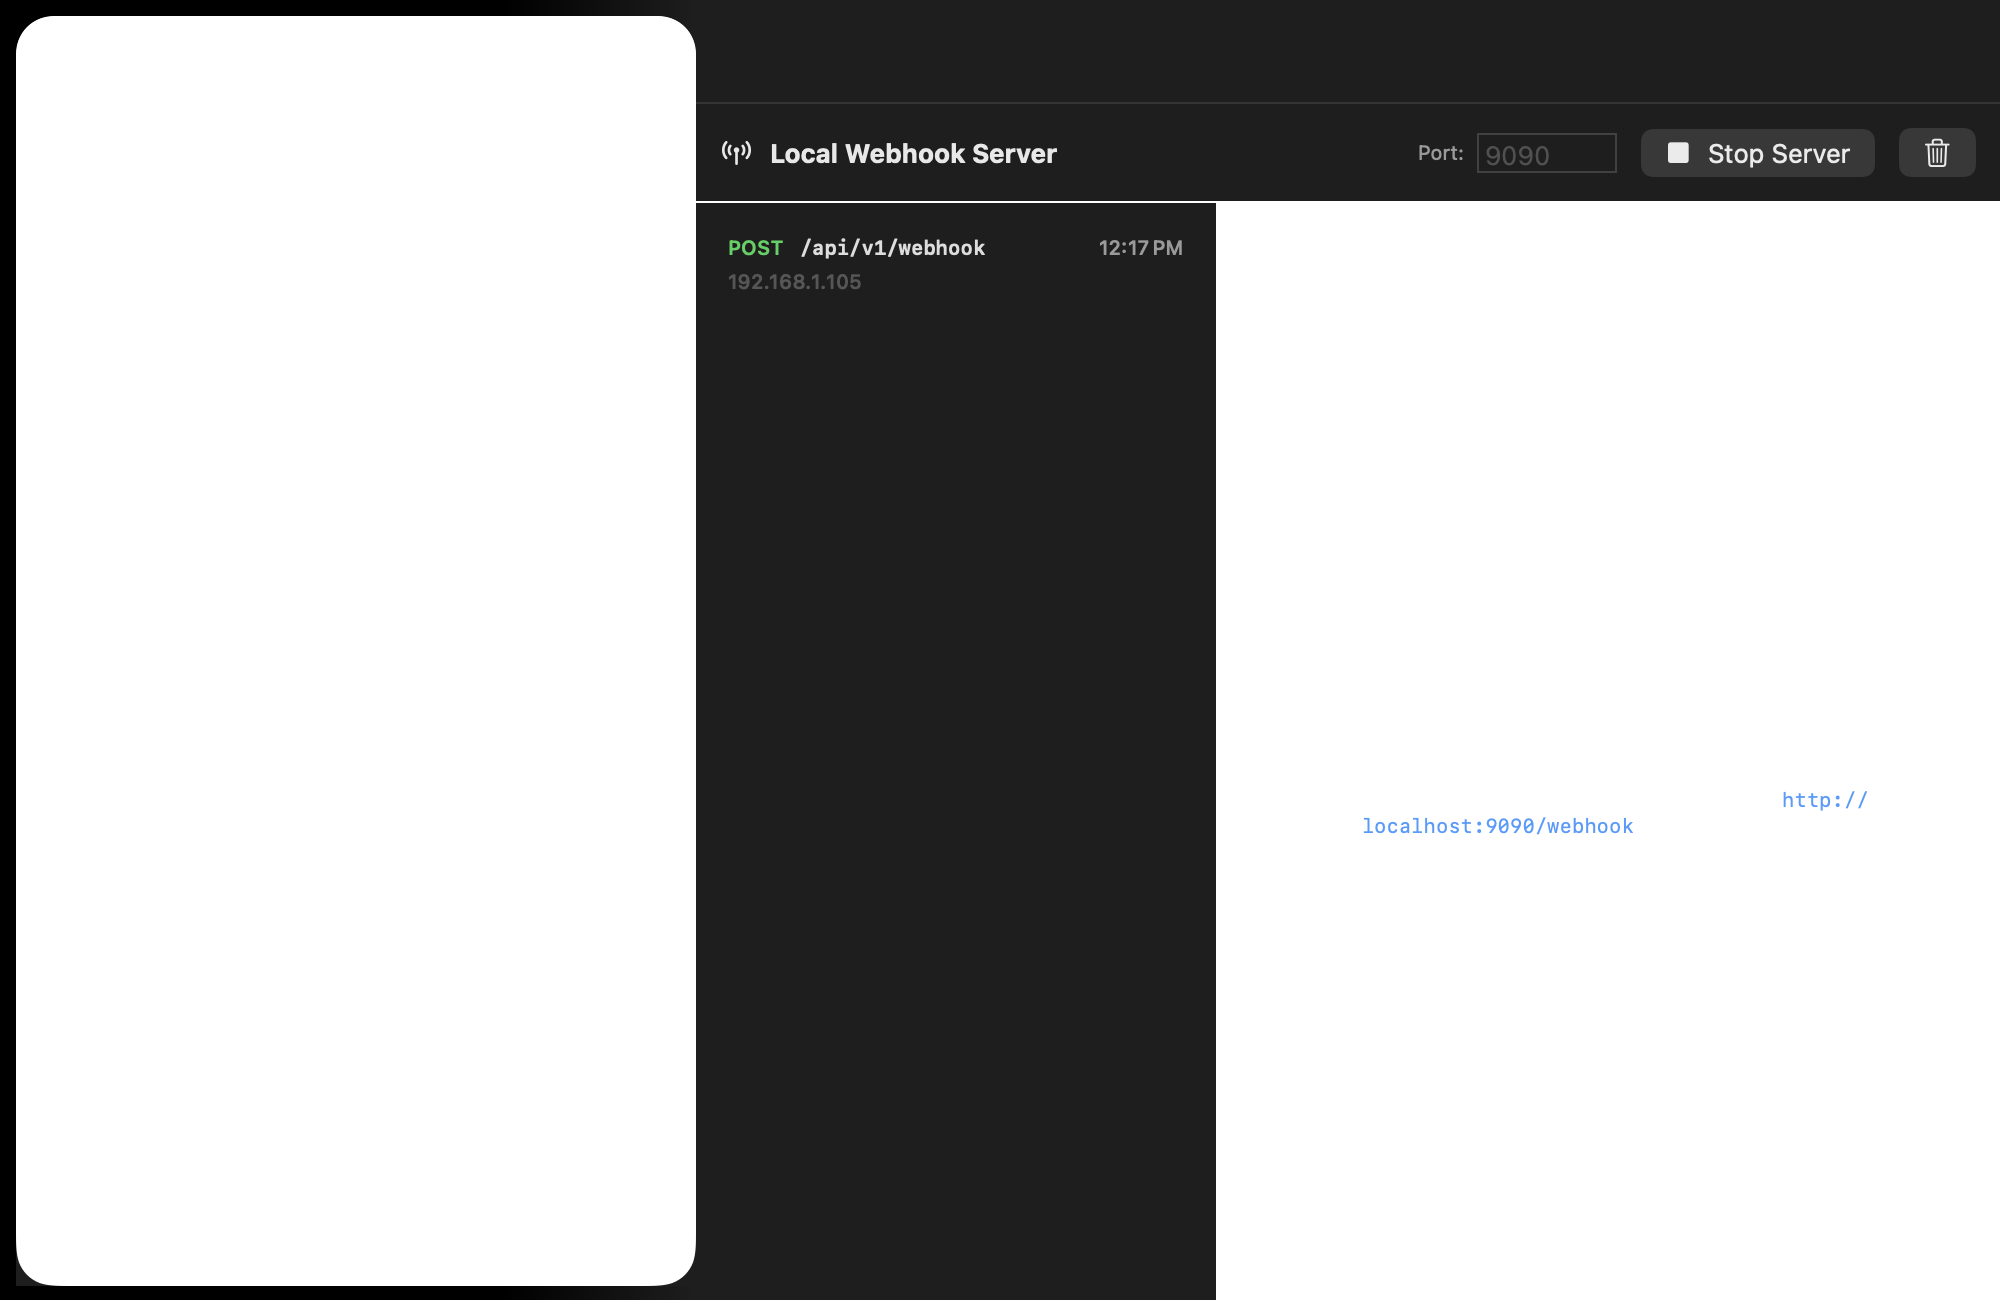
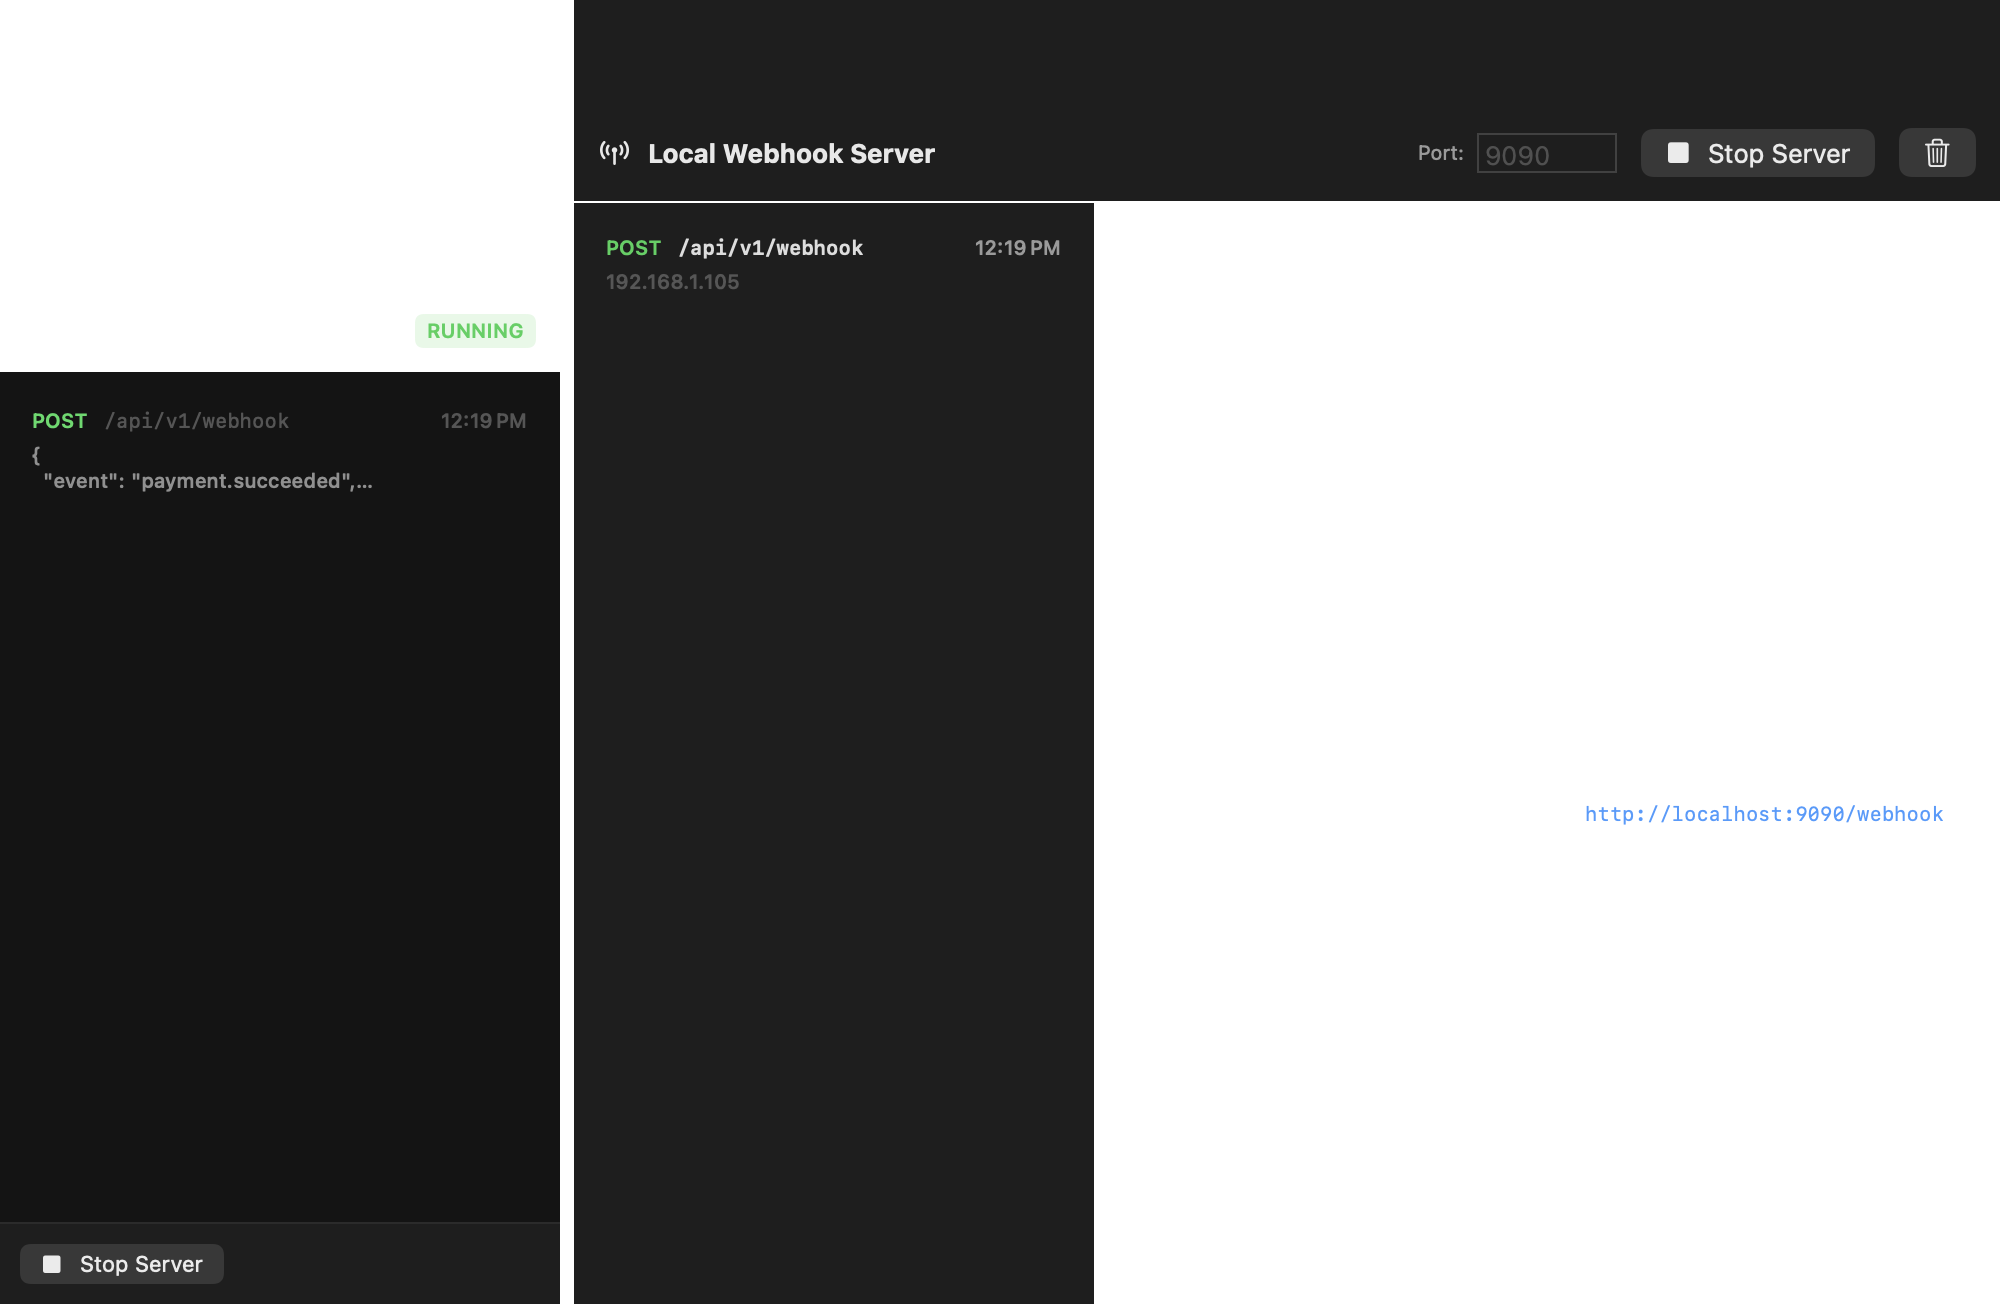
Make main sidebar smoothly drag-resizable with hover cursor and toggle button

diff --git a/Sources/Post/Views/MainContentView.swift b/Sources/Post/Views/MainContentView.swift
@@ -2,18 +2,38 @@ import SwiftUI
 
 struct MainContentView: View {
     @StateObject var store: PostStore
+    @State private var sidebarWidth: CGFloat = 280
     @State private var requestPaneHeight: CGFloat = 280
+    @State private var isSidebarCollapsed: Bool = false
 
     init(store: PostStore = PostStore()) {
         _store = StateObject(wrappedValue: store)
     }
 
     var body: some View {
-        NavigationSplitView {
-            SidebarView(store: store)
-                .navigationSplitViewColumnWidth(min: 240, ideal: 280, max: 340)
-        } detail: {
+        HStack(spacing: 0) {
+            if !isSidebarCollapsed {
+                SidebarView(store: store)
+                    .frame(width: sidebarWidth)
+
+                DraggableDivider(width: $sidebarWidth, minWidth: 200, maxWidth: 420)
+            }
+
             detailView
+                .frame(maxWidth: .infinity, maxHeight: .infinity)
+        }
+        .toolbar {
+            ToolbarItem(placement: .navigation) {
+                Button(action: {
+                    withAnimation(.easeInOut(duration: 0.2)) {
+                        isSidebarCollapsed.toggle()
+                    }
+                }) {
+                    Image(systemName: "sidebar.left")
+                }
+                .focusable(false)
+                .help("Toggle Sidebar")
+            }
         }
         .frame(minWidth: 900, minHeight: 600)
     }
